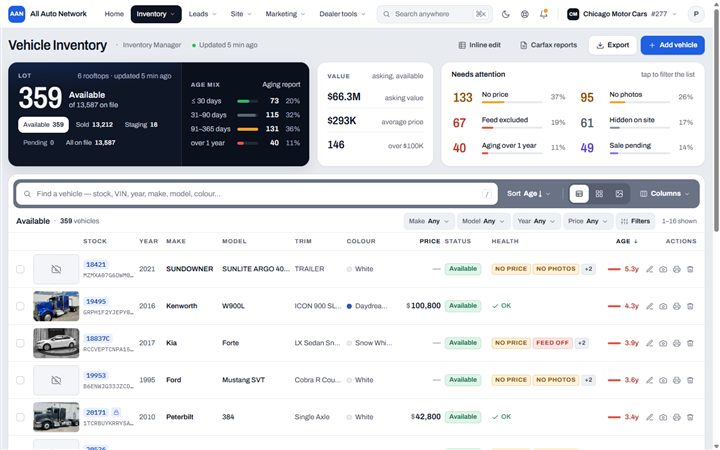
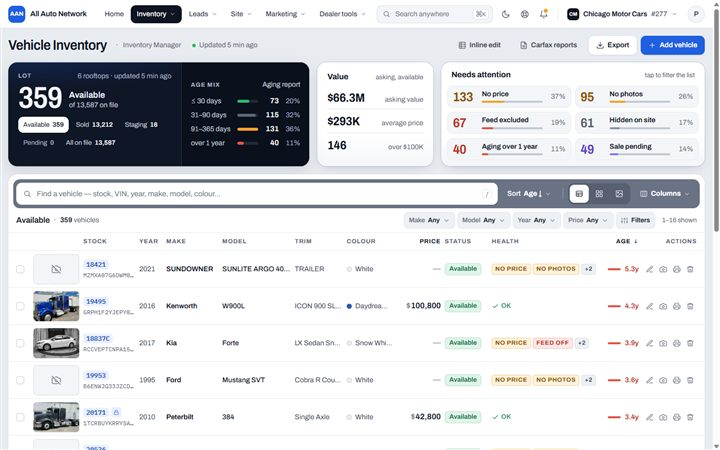
Gen 10: Value and Needs-attention boxes carry more weight
- Defined 1px edge (line-3), lifted shadow, faint bottom gradient into the well
- Headings 16/700, value figures 24/700, attention rows on a well background
  with firmer labels and a darker meter track

diff --git a/pages/dealer/all-vehicles-gen10.css b/pages/dealer/all-vehicles-gen10.css
@@ -873,3 +873,15 @@ body { overflow: auto; }
 .hd--stuck::before { content: ""; position: absolute; top: 0; bottom: -1px; left: calc(var(--gap) * -1); right: calc(var(--gap) * -1); z-index: -1; background: var(--sheet); border-bottom: 1px solid var(--line-2); box-shadow: 0 8px 16px -8px rgba(14,20,33,.22); }
 [data-theme="dark"] .hd--stuck::before { box-shadow: 0 8px 16px -8px rgba(0,0,0,.6); }
 .app.dock-open .hd--stuck::before { right: 0; }
+
+/* ── Value and Needs-attention carry more weight: defined edge, lifted shadow, firmer type ── */
+.value, .attn { box-shadow: 0 1px 0 rgba(14,20,33,.04), 0 8px 22px -10px rgba(14,20,33,.22), 0 0 0 1px var(--line-3); background: linear-gradient(180deg, var(--sheet) 0, var(--sheet) 70%, var(--well) 100%); }
+.value__h .caps, .attn__h h2 { font-size: 16px; font-weight: 700; letter-spacing: -.01em; text-transform: none; color: var(--ink); }
+.value__h .s, .attn__h .s { font-size: 13px; }
+.value .kv .v { font-size: 24px; font-weight: 700; }
+.value .kv > div { border-bottom-color: var(--line); }
+.ar { background: var(--well); border-color: var(--line-2); }
+.ar:hover { background: var(--wash); border-color: var(--line-3); }
+.ar__n { font-weight: 700; } .ar__l { font-weight: 600; } .ar__m { background: var(--line-3); }
+.attn__g { gap: 6px 8px; }
+[data-theme="dark"] .value, [data-theme="dark"] .attn { box-shadow: 0 10px 26px -10px rgba(0,0,0,.6), 0 0 0 1px var(--line-3); background: linear-gradient(180deg, var(--sheet) 0, var(--sheet) 70%, var(--wash) 100%); }
